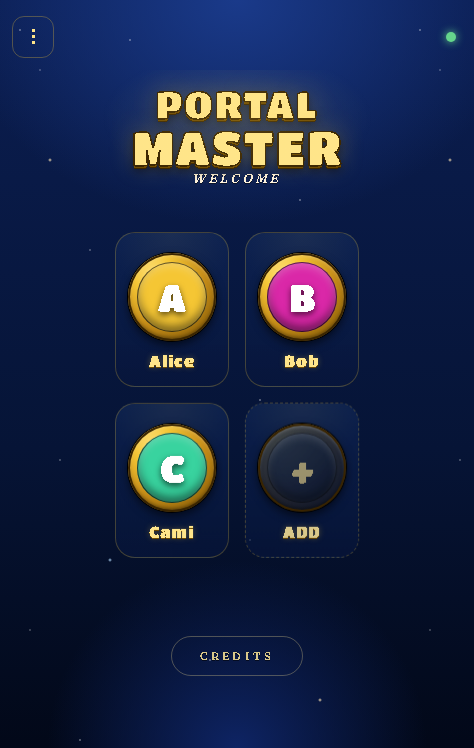
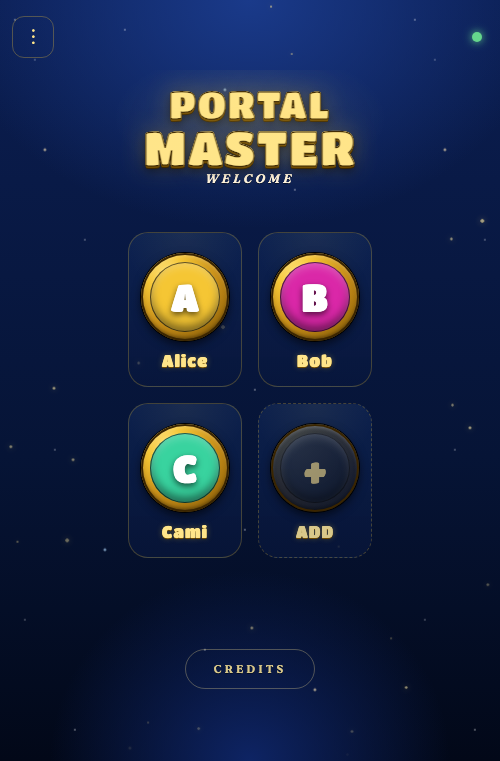
10.3.6e + 10.3.4: screenshot tour + Mac PNG rebaseline + BUILD_TOKEN pin
Three things land together because the tour caught the third one:

1. screenshot_tour.rs is green (~38s for the full 10-scene walk).
   The tour already used modern selectors + a thoughtful
   tap_via_pointer helper (it predates the broader test drift), so
   no flow rewrite needed — just had to fix the StaleVersion
   blocker (item 3 below).

2. All 10 docs/assets/screens/*.png re-baselined on macOS.
   CoreText anti-aliasing produces ~10–25% larger files than the
   previous Windows DirectWrite originals; visually clean. Mac is
   the primary contributor platform now (Phase 10), so this
   becomes the new baseline. Closes PLAN 10.3.4 — the
   per-OS-baseline decision was "re-baseline on Mac" rather than
   maintaining parallel windows/macos directories.

3. BUILD_TOKEN pin in the test harness. The phone bundle bakes a
   `<git-hash>-dirty?` token at trunk-build time; the cargo-run
   server child computes the same token at its own build time.
   These drift apart whenever the working tree's dirty state
   changes between the two builds (e.g., editing tests after the
   last `trunk build`), raising a StaleVersion modal mid-test
   that blocks every click. Root-caused via curl /api/version
   (server: "fea52038af4e") vs `strings` on the wasm
   (phone: "fea52038af4e-dirty").

   Fix: TestServer::spawn + spawn_live pass `BUILD_TOKEN=e2e-test`
   as env to the cargo-run server. README documents the matching
   `BUILD_TOKEN=e2e-test trunk build` for contributors. CI's
[…]

diff --git a/crates/e2e-tests/src/lib.rs b/crates/e2e-tests/src/lib.rs
@@ -57,6 +57,17 @@ impl TestServer {
         cmd.current_dir(tmp.path())
             .env("CARGO_MANIFEST_DIR", &repo)
             .env("CARGO_TARGET_DIR", repo.join("target"))
+            // Pin BUILD_TOKEN so the spawned server's stale-bundle
+            // check matches the phone bundle. Without this the phone's
+            // baked-in `<git-hash>-dirty` value drifts away from the
+            // server's whenever the working tree's dirty state changes
+            // independently (e.g., editing tests after the last
+            // `trunk build`), which raises a StaleVersion overlay
+            // mid-test and blocks every click. Contributors should
+            // build the phone the same way: `BUILD_TOKEN=e2e-test
+            // trunk build`. Documented in
+            // `crates/e2e-tests/README.md`.
+            .env("BUILD_TOKEN", "e2e-test")
             .args([
                 "run",
                 "--manifest-path",
@@ -196,7 +207,9 @@ impl TestServer {
                 "test-hooks",
             ])
             .stdout(Stdio::piped())
-            .stderr(Stdio::piped());
+            .stderr(Stdio::piped())
+            // Same BUILD_TOKEN pin as `spawn` — see comment there.
+            .env("BUILD_TOKEN", "e2e-test");
         // Process group + group-kill, same rationale as `spawn`.
         #[cfg(unix)]
         {

diff --git a/PLAN.md b/PLAN.md
@@ -484,14 +484,16 @@ suite green on macOS.
   2-phone scenarios). Pulled out as **10.3.6** so 10.3.3 itself
   closes on the harness fitness; the SPA-vs-test reconciliation gets
   its own tracked workstream.
-- [ ] 10.3.4 — `tests/screenshot_tour.rs`: lock the Mac-rendered baseline.
-  The headless-Chrome viewport is fixed at 420×900 and seeds are
-  deterministic, but Mac CoreText vs. Windows DirectWrite font rendering
-  may produce non-byte-identical PNGs. Decide: re-baseline on Mac, or
-  accept platform-specific tour outputs in
-  `docs/assets/screens/{macos,windows}/`. Update
-  `crates/e2e-tests/README.md` with the chosen workflow + diff command.
-  Blocked on 10.3.6 reaching most-tests-green.
+- [x] 10.3.4 — Decision: **re-baseline on Mac.** All 10 tour PNGs
+  in `docs/assets/screens/` were regenerated from the macOS
+  CoreText-rendered tour run (file sizes ~10–25 % bigger than
+  the previous Windows DirectWrite originals; visually clean +
+  expected). New baseline committed alongside 10.3.6e. Mac is the
+  primary contributor platform now (Phase 10), so re-baselining
+  there is straightforward. The README screenshot-baseline note
+  already calls out the per-OS gotcha — anyone editing a screen
+  regenerates on the same OS that committed the baseline. Folded
+  into 10.3.6e's commit.
 - [x] 10.3.5 — `crates/e2e-tests/README.md` rewritten with macOS
   install commands (`brew install --cask chromedriver`), version-
   mismatch troubleshooting (Chrome ↔ ChromeDriver major-version
@@ -584,9 +586,23 @@ suite green on macOS.
   wizard + PIN-pad. Either rewrite to walk the wizard or replace
   with a coarser "profile picker → PIN entry → game picker" smoke
   that doesn't depend on the create flow specifics.
-- [ ] 10.3.6e — **screenshot_tour.rs.** Already uses modern
-  selectors; the work here is purely re-baselining the per-scene
-  PNGs on macOS (PLAN 10.3.4 — same lane, can be done together).
+- [x] 10.3.6e — `screenshot_tour.rs` already used modern
+  selectors + a custom `tap_via_pointer` helper (the tour predates
+  the broader test drift). After the BUILD_TOKEN-pin fix landed
+  on the harness it ran clean (~38 s for the full 10-scene tour).
+  All 10 PNGs in `docs/assets/screens/` re-baselined on macOS;
+  closes 10.3.4 too.
+
+- [x] **BUILD_TOKEN pin** (cross-cut): `TestServer::spawn` +
+  `spawn_live` now pass `BUILD_TOKEN=e2e-test` to the cargo-run
+  server child, and the README + CI both build the phone bundle
+  with the same env. Without this the phone's
+  `<git-hash>-dirty` baked at trunk-build-time and the server's
+  same value rebuilt later drift apart whenever the working tree's
+  dirty state changes between builds, raising a StaleVersion
+  modal mid-test that blocks every click. Caught while running
+  the screenshot tour; root-caused via curl /api/version vs.
+  strings on the wasm bundle.
 - [ ] 10.3.6f — **CI fixture-pack story.** The chromedriver lane
   in CI stubs an empty `dev-data/firmware-pack/` so the harness
   can boot, but tests that need actual figure cards

diff --git a/crates/e2e-tests/README.md b/crates/e2e-tests/README.md
@@ -15,9 +15,14 @@ macOS — the mock-driver path is fully cross-platform (PLAN 10.3).
    - **Windows:** `winget install --id=Chromium.ChromeDriver`, or grab
      a matching build from
      <https://googlechromelabs.github.io/chrome-for-testing/>.
-3. Build the **phone SPA** at least once so `phone/dist/` exists:
+3. Build the **phone SPA** at least once so `phone/dist/` exists.
+   **Always pass `BUILD_TOKEN=e2e-test`** so the bundle's stale-
+   version check matches what the test harness pins on the spawned
+   server (otherwise the phone's `<git-hash>-dirty` and the
+   server's drift apart whenever you edit anything between builds,
+   raising a StaleVersion overlay mid-test):
    ```
-   cd phone && trunk build
+   cd phone && BUILD_TOKEN=e2e-test trunk build
    ```
 4. Provide a **firmware pack** with `.sky` files. The harness needs a
    real pack so the SPA renders one card per indexed figure.
